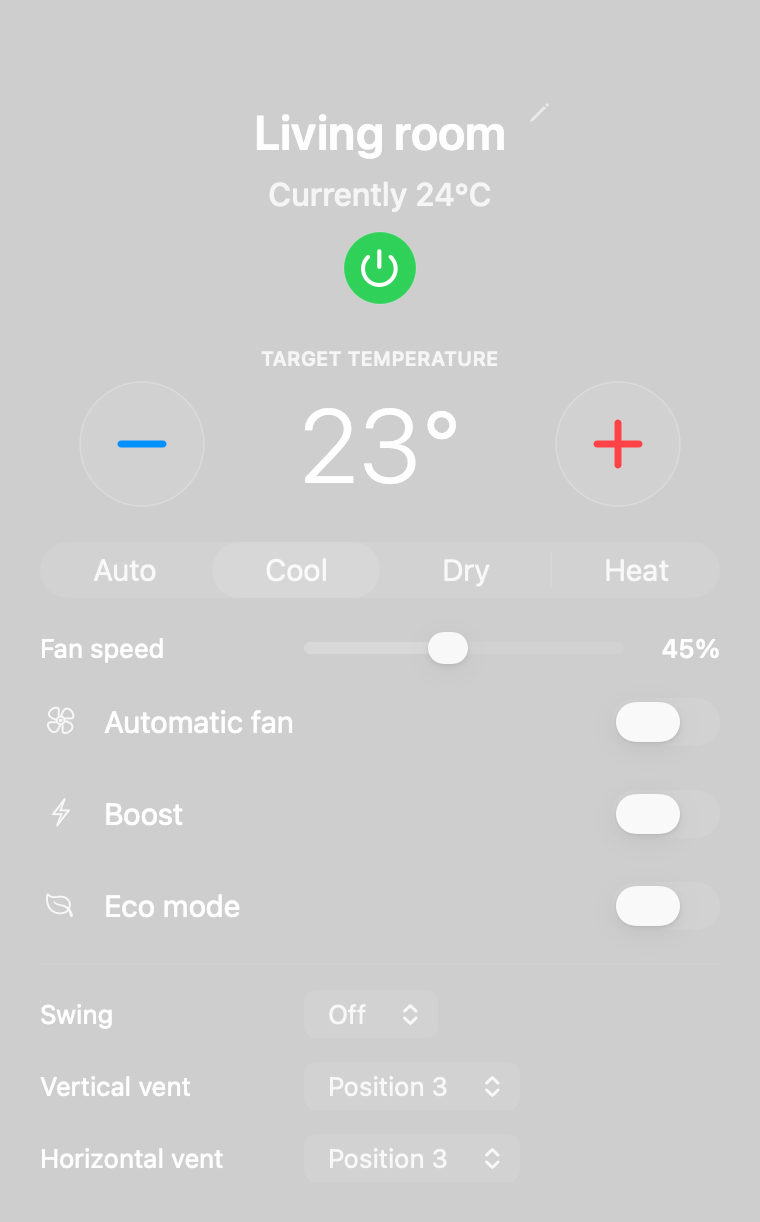
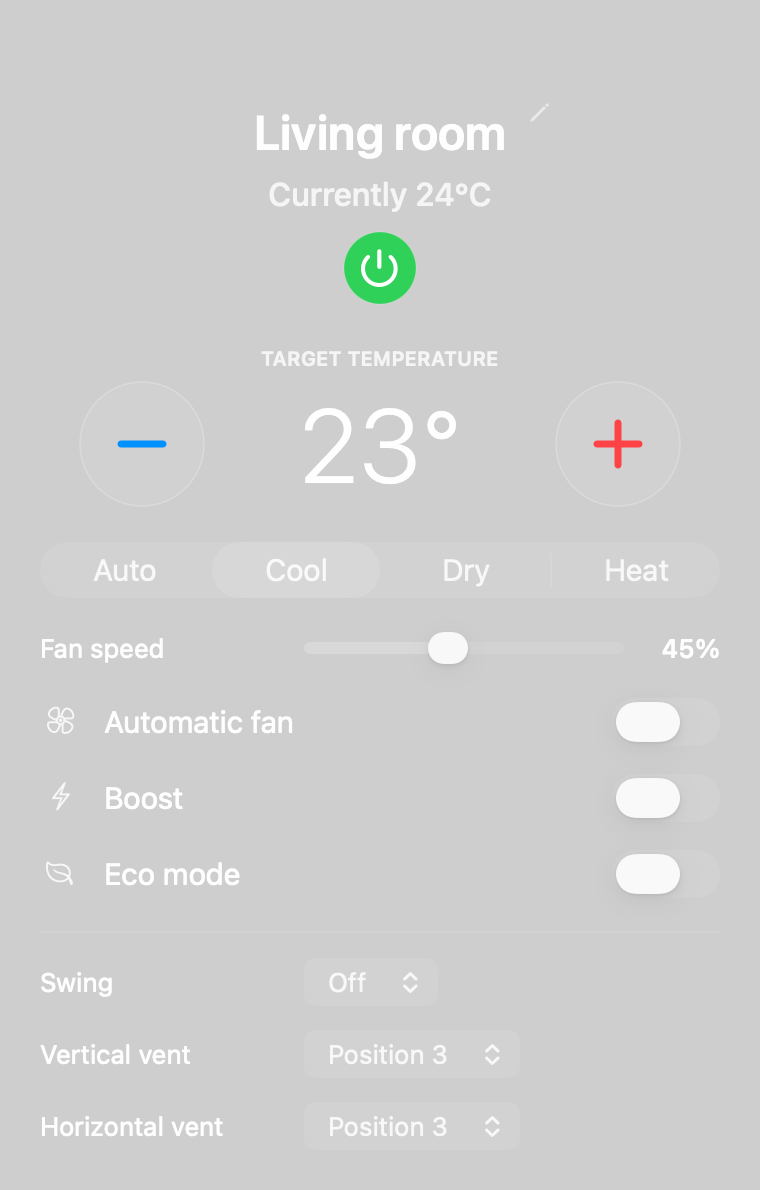
Tighten spacing between setting toggles

diff --git a/native/AcMan.swift b/native/AcMan.swift
@@ -379,6 +379,8 @@ final class App: NSObject, NSApplicationDelegate, NSMenuDelegate {
         let fanControl = NSStackView(views: [fan, fanPercent]); fanControl.spacing = 8
         row("Fan speed", fanControl, in: contents)
         configure(autoFan, #selector(setAutoFan)); configure(boost, #selector(setBoost))
+        let fanSettings = NSStackView()
+        fanSettings.orientation = .vertical; fanSettings.alignment = .leading; fanSettings.spacing = 4
         func fanSetting(_ title: String, symbol: String, toggle: NSSwitch) {
             let icon = NSImageView()
             icon.image = NSImage(systemSymbolName: symbol, accessibilityDescription: nil)
@@ -393,12 +395,13 @@ final class App: NSObject, NSApplicationDelegate, NSMenuDelegate {
             setting.alignment = .centerY; setting.spacing = 12
             setting.distribution = .fill
             setting.heightAnchor.constraint(equalToConstant: 34).isActive = true
-            full(setting, in: contents)
+            full(setting, in: fanSettings)
         }
         fanSetting("Automatic fan", symbol: "fanblades", toggle: autoFan)
         fanSetting("Boost", symbol: "bolt", toggle: boost)
         configure(eco, #selector(setEco))
         fanSetting("Eco mode", symbol: "leaf", toggle: eco)
+        full(fanSettings, in: contents)
         fanNote.font = .systemFont(ofSize: 11); fanNote.textColor = .secondaryLabelColor
         full(fanNote, in: contents); fanNote.heightAnchor.constraint(equalToConstant: 30).isActive = true
         let fanDivider = NSBox(); fanDivider.boxType = .separator
